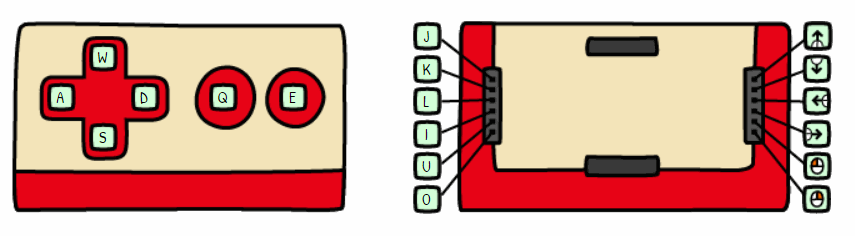
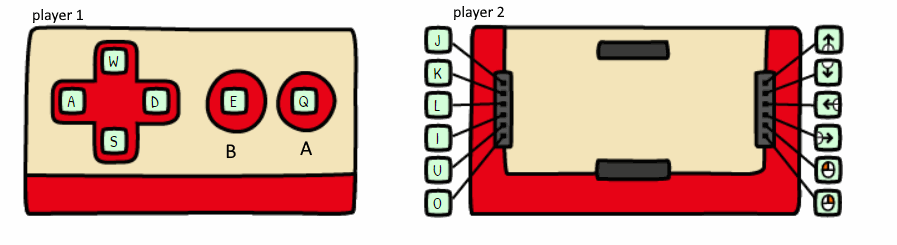
added images

diff --git a/docs/hardware/makey-makey.md b/docs/hardware/makey-makey.md
@@ -2,8 +2,10 @@
 
 Can you use your [Makey Makeys](https://makeymakey.com/) to control Arcade games? Yes! Yes! Yes!
 
+![A banana used to play a Arcade game with Makey Makey](/static/hardware/makey-makey/hands.jpg)
+
 The Makey Makey keys just needs to be remapped to match [Arcade controllers keys](https://arcade.makecode.com/reference/controller).
-Once remapped, you can use the Makey Makey to build fun controllers for your games (up to 2 players!).
+Once remapped, you can use all the awesomeness of Makey Makey to build fun controllers for your games (up to 2 players!). 
 
 ## Remapping your Makey Makey
 
@@ -14,6 +16,6 @@ Once remapped, you can use the Makey Makey to build fun controllers for your gam
 
 ## Playing your games
 
-You can play your Arcade games from the editor or simply by clicking **Share** and playing from the shared page.
+You can play your Arcade games from the editor or simply by clicking **Share** and playing from the shared page. **Make sure to focus the game area so that it receives the keyboard commands**.
 
 Have fun!
